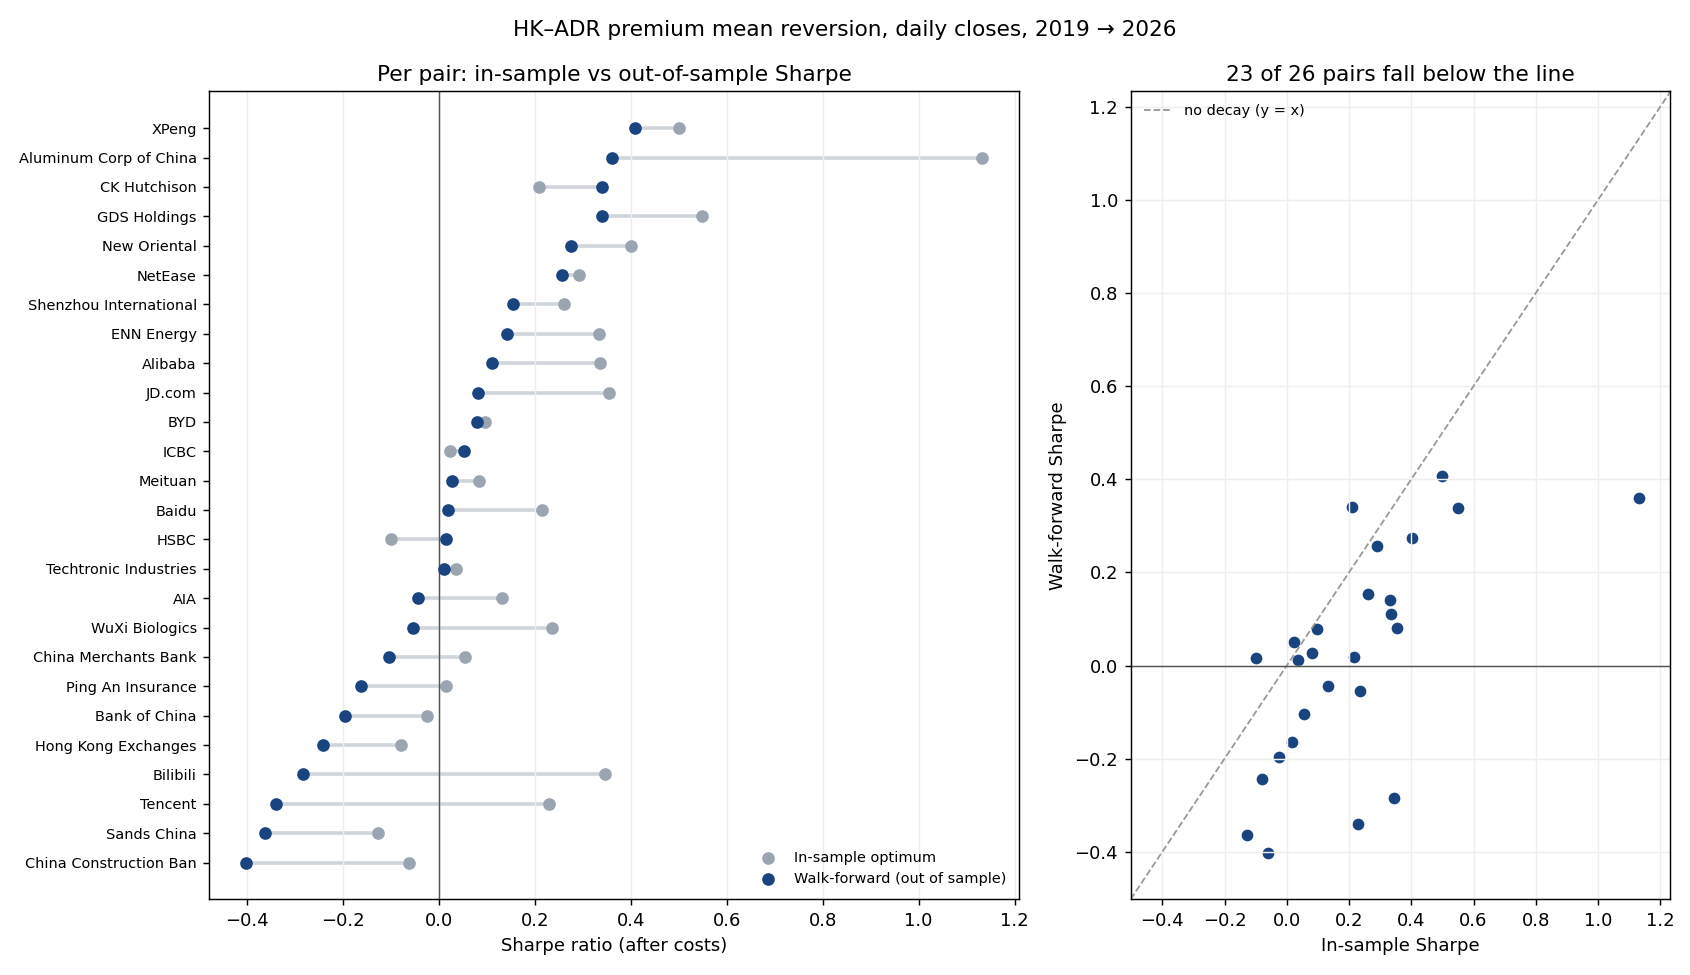
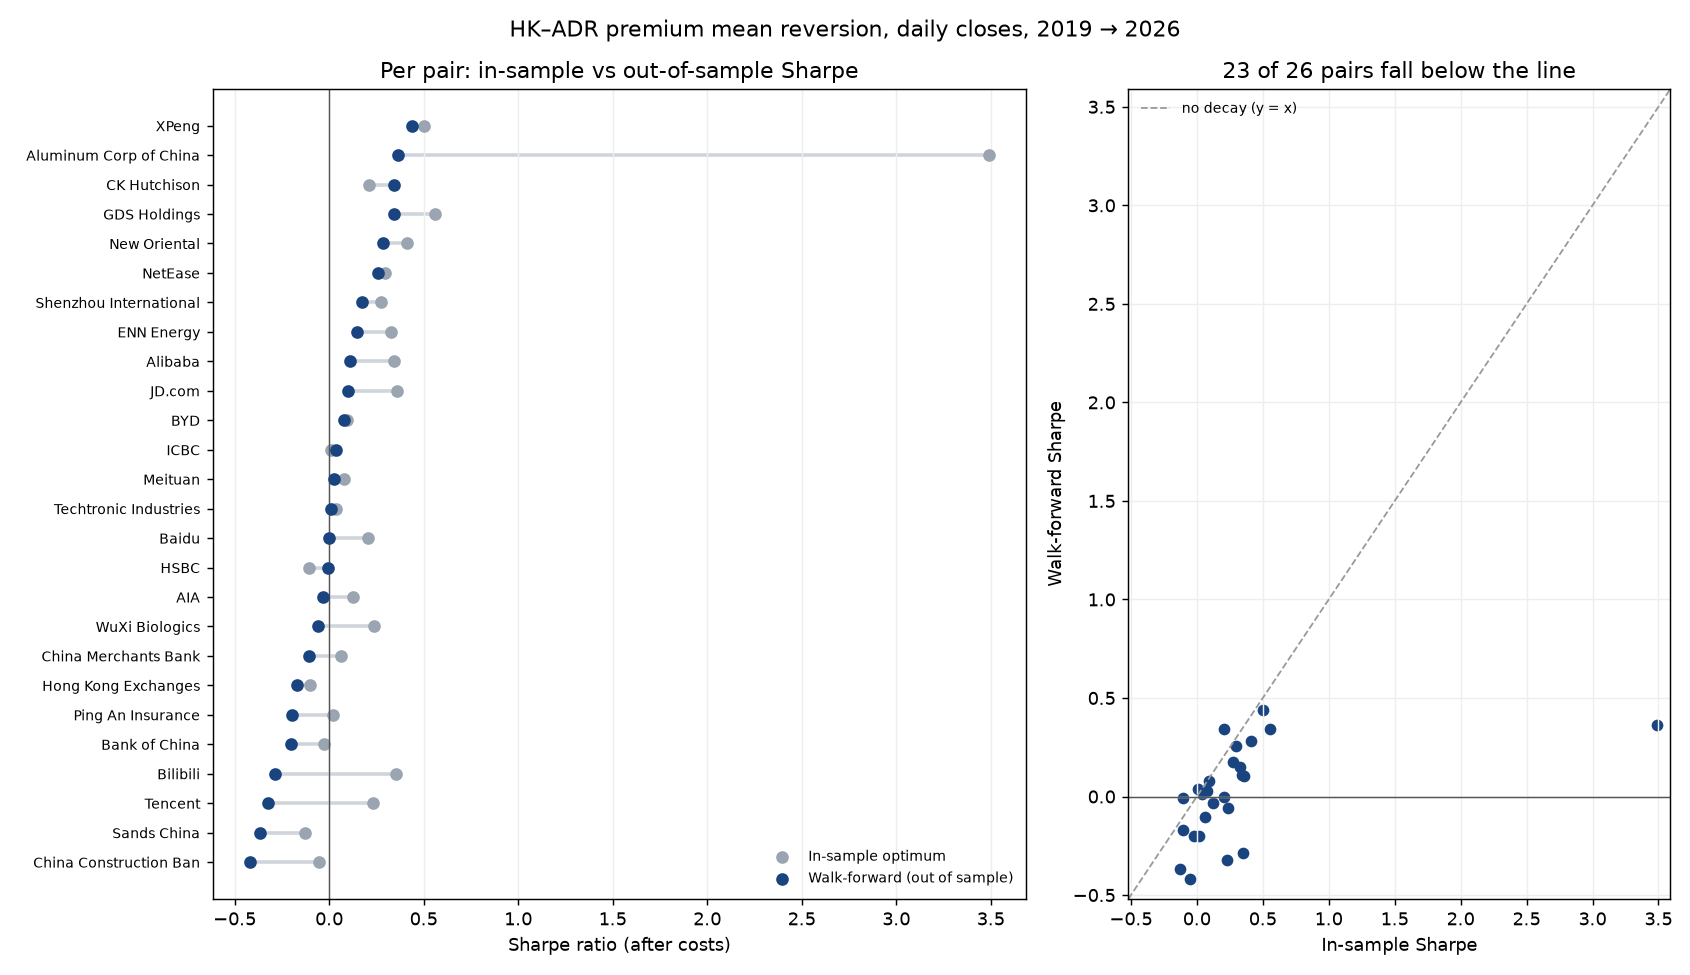
Rerun 26-pair universe with the walk-forward and drawdown fixes
Data window Jan 2019 -> Aug 2026 (--end 2026-09-01). Headline results
are essentially unchanged: median walk-forward Sharpe 0.02, 14/26 pairs
positive (was 16), median annual return -1.6% (was -1.4%). README notes
the pairs flagged by the ADR-ratio check.

diff --git a/README.md b/README.md
@@ -71,7 +71,7 @@ With these defaults a round trip costs about **34 bp**. That is a large hurdle f
 
 The gap between the two is the headline result for each pair.
 
-## Results: 26 pairs, daily closes, Jan 2019 → 2026
+## Results: 26 pairs, daily closes, Jan 2019 → Aug 2026
 
 <p align="center">
   <img src="docs/universe_is_vs_oos.png" width="95%" alt="In-sample vs walk-forward Sharpe for 26 HK–ADR pairs">
@@ -80,24 +80,24 @@ The gap between the two is the headline result for each pair.
 | | In-sample optimum | Walk-forward (out of sample) |
 |---|---|---|
 | Median Sharpe (after costs) | 0.21 | **0.02** |
-| Pairs with Sharpe > 0 | 21 / 26 | 16 / 26 |
+| Pairs with Sharpe > 0 | 21 / 26 | 14 / 26 |
 | Pairs with Sharpe > 0.3 | 8 / 26 | 4 / 26 |
-| Median annual return | — | −1.4% |
+| Median annual return | — | −1.6% |
 | Median max drawdown | — | −23% |
 
 **What this says**
 
-- **Once session timing and costs are modelled, there is no robust edge in daily closes.** The median pair earns roughly nothing out of sample, and the best walk-forward Sharpe is 0.41 (XPeng, on only 13 trades).
-- **The grid search overfits.** 23 of 26 pairs do worse out of sample than their in-sample optimum; the median pair loses 0.17 of Sharpe. Aluminum Corp of China drops from 1.13 to 0.36, and Tencent and Bilibili flip from positive to clearly negative.
+- **Once session timing and costs are modelled, there is no robust edge in daily closes.** The median pair earns roughly nothing out of sample, and the best walk-forward Sharpe is 0.44 (XPeng, on only 12 trades).
+- **The grid search overfits.** 23 of 26 pairs do worse out of sample than their in-sample optimum; the median pair loses 0.17 of Sharpe. GDS drops from 0.56 to 0.34, and Tencent and Bilibili flip from positive to clearly negative.
 - **In-sample rank still carries some information** (rank correlation 0.69 between in-sample and out-of-sample Sharpe), so the pairs that look better are somewhat more likely to hold up, just far less well than the in-sample numbers suggest.
 - An earlier version of this research, which compared same-day HK and US closes and optimised on the full sample, showed far higher Sharpe ratios. Most of that gap is the look-ahead and overfitting this repository is designed to remove.
 
-Full per-pair numbers are in [`results/universe_summary.csv`](results/universe_summary.csv).
+Full per-pair numbers are in [`results/universe_summary.csv`](results/universe_summary.csv), produced by `python scripts/run_universe.py --start 2019-01-01 --end 2026-09-01`.
 
 **Caveats on these numbers**
 
 - **Survivorship:** 8 of the 34 pairs could not be tested because their ADRs are delisted or renamed on Yahoo Finance (LFC, SNP, PTR, SHI, CEA, ZNH, HNP and BGNE), so the tested universe leans toward names that are still listed.
-- **ADR ratios:** `pairs.csv` ratios are as of early 2022. `run_universe.py` now reports each pair's median premium and flags `CHECK RATIO` when it is above 10%, which usually means a ratio change during the sample.
+- **ADR ratios:** `pairs.csv` ratios are as of early 2022. `run_universe.py` now reports each pair's median premium and flags `CHECK RATIO` when it is above 10%, which usually means a ratio change during the sample. In the current run this flags Aluminum Corp of China (its in-sample Sharpe of 3.49 is the outlier in the chart and should not be trusted), New Oriental and BYD.
 
 The synthetic-data figures below illustrate the method on a pair with a known, mean-reverting premium.
 
